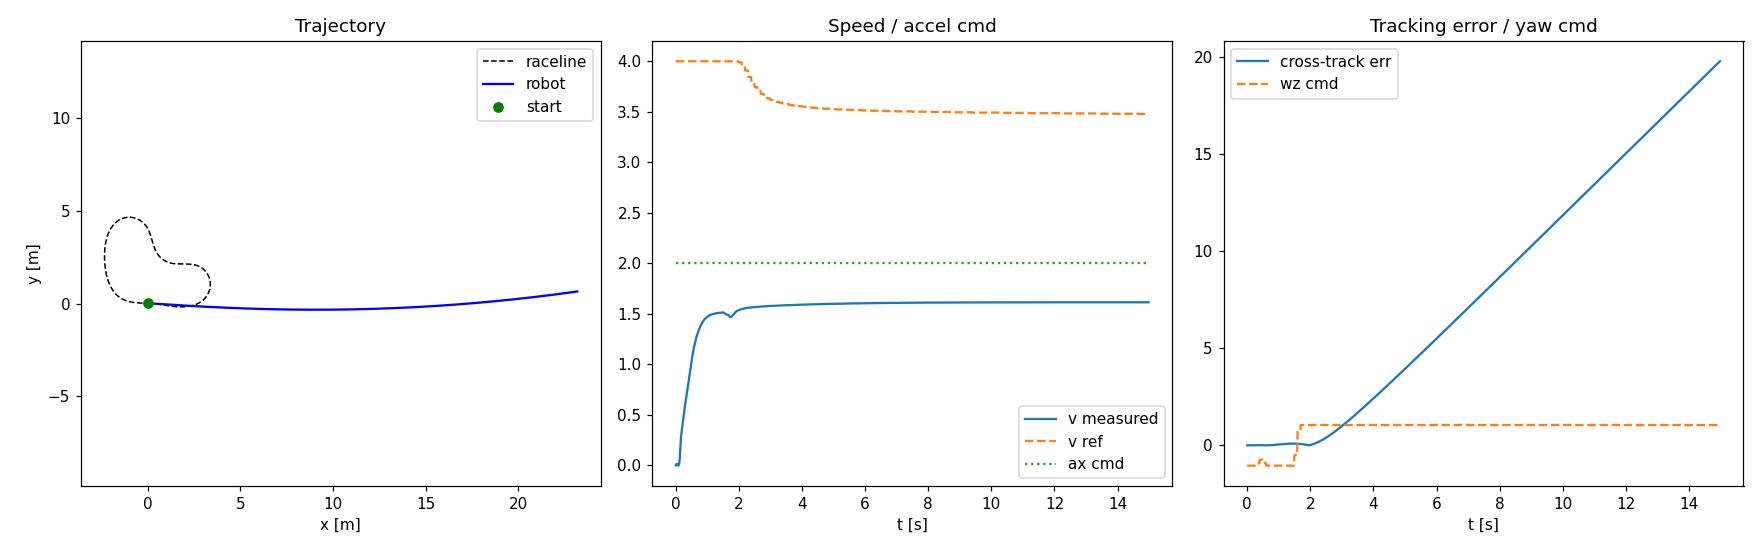
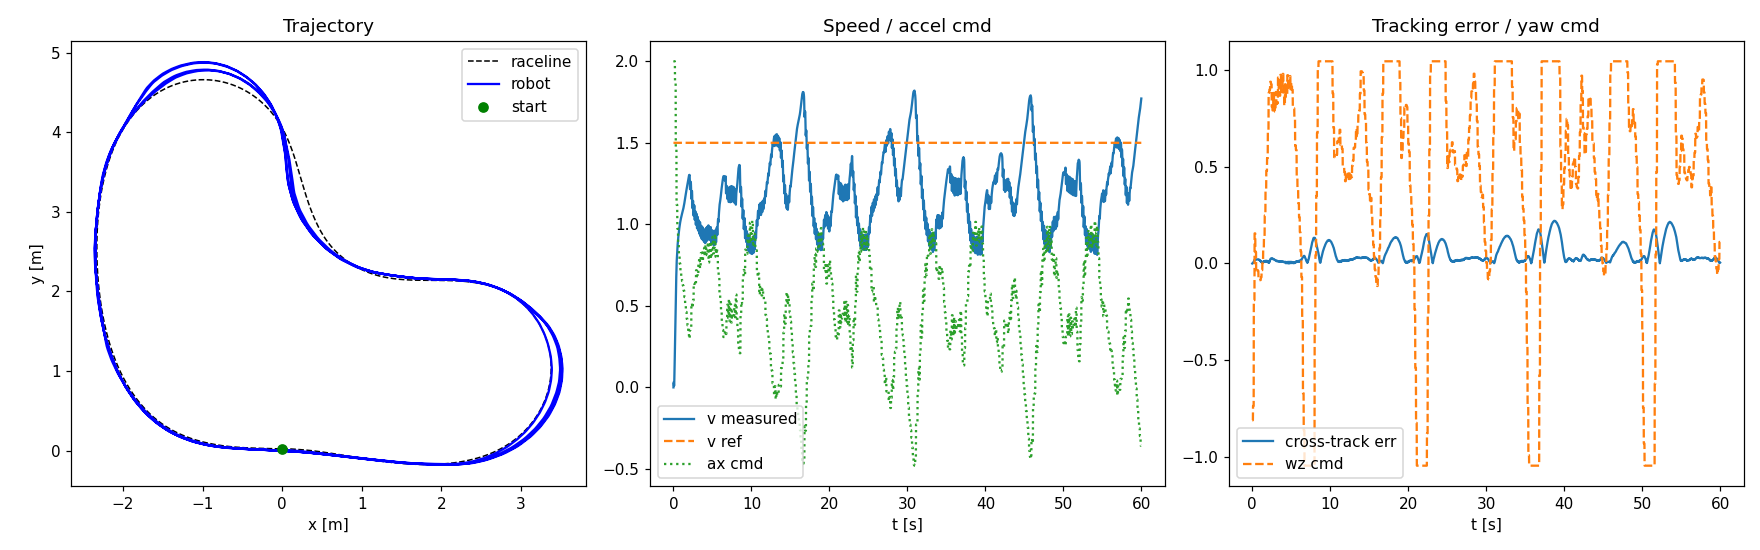
mujoco sim of new trained policy

diff --git a/scripts/mujoco_track_sim/run_mujoco_track_sim.py b/scripts/mujoco_track_sim/run_mujoco_track_sim.py
@@ -6,6 +6,7 @@ from __future__ import annotations
 
 import argparse
 import os
+import time
 
 import mujoco
 import numpy as np
@@ -17,7 +18,7 @@ HERE = os.path.dirname(os.path.abspath(__file__))
 XML = os.path.join(HERE, "assets", "go2w.xml")
 DEFAULT_RACELINE = os.path.expanduser("~/go2w_planner_ws/data/raceline_ltrack.npz")
 DEFAULT_POLICY = os.path.expanduser(
-    "~/robot_lab/logs/rsl_rl/unitree_go2w_smooth_steer/2026-05-13_16-50-51/exported/policy.pt"
+    "~/robot_lab/logs/rsl_rl/unitree_go2w_smooth_steer/2026-05-29_08-49-22/exported/policy.pt"
 )
 
 PHYS_DT = 0.005
@@ -90,8 +91,9 @@ class Sim:
         leg_q_des, wheel_dq_des = self.runner.decode(action)
         self.data.ctrl[self.act_idx] = np.concatenate([leg_q_des, wheel_dq_des])
 
-    def run(self, duration, viewer=False, verbose=True):
+    def run(self, duration, viewer=False, verbose=True, real_time=True):
         n_control = int(duration / (PHYS_DT * CONTROL_DECIMATION))
+        control_dt = PHYS_DT * CONTROL_DECIMATION
         log = {"t": [], "x": [], "y": [], "v": [], "v_ref": [], "cmd": [], "z": [], "s": []}
         command = np.zeros(3)
         last_info = {"v_ref": 0.0, "s": 0.0}
@@ -100,8 +102,15 @@ class Sim:
         if viewer:
             from mujoco import viewer as mj_viewer
             vh = mj_viewer.launch_passive(self.model, self.data)
+            base_id = mujoco.mj_name2id(self.model, mujoco.mjtObj.mjOBJ_BODY, "base")
+            if base_id >= 0:
+                vh.cam.trackbodyid = base_id
+                vh.cam.distance = 4.0
+                vh.cam.azimuth = 90.0
+                vh.cam.elevation = -25.0
 
         self.reset_on_track()
+        wall_start = time.perf_counter()
         try:
             for k in range(n_control):
                 x, y, psi, v = self.read_planner_state()
@@ -123,6 +132,10 @@ class Sim:
 
                 if vh is not None:
                     vh.sync()
+                if real_time and vh is not None:
+                    lag = (k + 1) * control_dt - (time.perf_counter() - wall_start)
+                    if lag > 0:
+                        time.sleep(lag)
                 if verbose and k % 50 == 0:
                     print(f"t={t:5.1f}s  s={last_info['s']:5.2f}/{self.planner.track_length:.1f}m  "
                           f"pos=({x:5.2f},{y:5.2f})  v={v:4.2f}->{last_info['v_ref']:4.2f}  "
@@ -180,11 +193,12 @@ def main():
     ap.add_argument("--policy", default=DEFAULT_POLICY)
     ap.add_argument("--duration", type=float, default=30.0)
     ap.add_argument("--viewer", action="store_true")
+    ap.add_argument("--no_real_time", action="store_true")
     ap.add_argument("--plot", default=os.path.join(HERE, "track_result.png"))
     args = ap.parse_args()
 
     sim = Sim(args.xml, args.raceline, args.policy)
-    log = sim.run(args.duration, viewer=args.viewer)
+    log = sim.run(args.duration, viewer=args.viewer, real_time=not args.no_real_time)
     sim.report(log, args.plot)
 
 

diff --git a/scripts/mujoco_track_sim/accel_pursuit_planner.py b/scripts/mujoco_track_sim/accel_pursuit_planner.py
@@ -19,6 +19,7 @@ BLEND_MARGIN = 0.9
 KP_V = 1.5
 AX_MAX = 2.0
 WZ_MAX = np.pi / 3
+V_MAX = 1.5
 
 
 class _SpeedProfile:
@@ -60,7 +61,7 @@ class _RacelineProjector:
 
 class AccelPursuitPlanner:
     def __init__(self, raceline_npz, lookahead_m=LOOKAHEAD_M, v_straight=V_STRAIGHT,
-                 v_corner=V_CORNER, kp_v=KP_V, use_raceline_v=True):
+                 v_corner=V_CORNER, kp_v=KP_V, use_raceline_v=True, v_max=V_MAX):
         data = np.load(raceline_npz)
         pts = data["pts"].astype(float)
         ss = data["ss"].astype(float)
@@ -74,6 +75,7 @@ class AccelPursuitPlanner:
             self._speed = _SpeedProfile(ss, theta, v_straight=v_straight, v_corner=v_corner)
         self.lookahead = lookahead_m
         self.kp_v = kp_v
+        self.v_max = v_max
         self.track_length = float(ss[-1])
 
     def plan(self, x, y, psi, v):
@@ -88,7 +90,7 @@ class AccelPursuitPlanner:
         dx, dy = lx - x, ly - y
         dist = np.maximum(np.hypot(dx, dy), 1e-3)
         alpha = ((np.arctan2(dy, dx) - psi) + np.pi) % (2 * np.pi) - np.pi
-        v_ref = self._speed(s_steps)
+        v_ref = np.minimum(self._speed(s_steps), self.v_max)
         wz = np.clip(2.0 * np.maximum(v_ref, 0.1) * np.sin(alpha) / dist + KP_HDG * alpha,
                      -WZ_MAX, WZ_MAX)
         ax = np.clip(self.kp_v * (v_ref - v_now), -AX_MAX, AX_MAX)

diff --git a/scripts/mujoco_track_sim/gen_go2w_mjcf.py b/scripts/mujoco_track_sim/gen_go2w_mjcf.py
@@ -34,7 +34,7 @@ LEG_KD = 10.0
 WHEEL_KV = 0.5
 EFFORT_LIMIT = 23.5
 BASE_INIT_HEIGHT = 0.45
-GROUND_FRICTION = 0.7
+GROUND_FRICTION = 1.1
 
 
 def rpy_to_quat(rpy):

diff --git a/scripts/mujoco_track_sim/README.md b/scripts/mujoco_track_sim/README.md
@@ -1,53 +1,82 @@
 # Go2W MuJoCo track-following sim
 
-Standalone (ROS-free) MuJoCo rig to validate the smooth-steer RL model following the
-raceline with the new `[lin_acc_x, roll_rate, ang_vel_z]` command interface, before
-deploying to the robot.
+Standalone (ROS-free) MuJoCo rig to validate the Go2W smooth-steer RL policy following
+the raceline before deploying to the robot. The policy is trained in IsaacLab with the
+`[lin_acc_x, roll_rate, ang_vel_z]` differential command; this rig reproduces the exact
+observation/action interface so a policy that works here can be ported to the robot
+`rl_node` unchanged.
 
 ## Files
 - `gen_go2w_mjcf.py` — generates `assets/go2w.xml` from the robot_lab Go2W URDF (converts
   `.dae`→`.stl`, floating base, ground plane, IsaacLab-matched actuators, IMU/gyro sensor).
-  Run once: `python gen_go2w_mjcf.py`.
+  Run once after a URDF change. Key constants: `LEG_KP=70`, `LEG_KD=10`, `WHEEL_KV=0.5`,
+  `EFFORT_LIMIT=23.5`, `BASE_INIT_HEIGHT=0.45`, `GROUND_FRICTION=1.1` (matches the lab floor).
+- `policy_runner.py` — `PolicyRunner`: the exact 54-d observation layout and 16-d action
+  decode of the IsaacLab env. This is the piece to port into the robot `rl_node`.
 - `accel_pursuit_planner.py` — `AccelPursuitPlanner`: raceline + pose → `[ax, 0, wz]`.
-  Acceleration variant of `pure_pursuit_node`; outer speed loop `ax = Kp·(v_ref − v)`,
-  yaw rate from pure-pursuit geometry. Pure NumPy, drops into a ROS node that publishes
-  an `action_seq` of shape `(HORIZON, 3)` via `plan_horizon()`.
-- `policy_runner.py` — `PolicyRunner`: the exact 54-d obs layout and 16-d action decode of
-  the IsaacLab env. This is the piece to port into the robot `rl_node`.
+  Outer speed loop `ax = Kp·(v_ref − v)`, yaw from pure-pursuit geometry, roll fixed at 0.
+  Drops into a ROS node that publishes an `action_seq` of shape `(HORIZON, 3)` via
+  `plan_horizon()`.
 - `run_mujoco_track_sim.py` — the test loop (50 Hz control, 10 Hz planning, 200 Hz physics).
-- `isaaclab_command_check.py` — forces a fixed command in native IsaacLab to ground-truth a
-  policy's command response.
+  Defaults to the current best policy; override with `--policy`.
+- `assets/go2w.xml`, `assets/meshes/` — generated MuJoCo model (do not hand-edit; regenerate).
 
 ## Run
+```bash
+conda activate isaac
+cd ~/robot_lab/scripts/mujoco_track_sim
+
+python gen_go2w_mjcf.py                         # regenerate the MJCF (only after URDF changes)
+python run_mujoco_track_sim.py --viewer         # interactive viewer (real-time, camera follows robot)
+python run_mujoco_track_sim.py --duration 60    # headless, saves track_result.png
+python run_mujoco_track_sim.py --policy <path/to/exported/policy.pt> --viewer
 ```
-conda activate env_isaaclab_v2
-python gen_go2w_mjcf.py
-python run_mujoco_track_sim.py --duration 30            # headless, saves track_result.png
-python run_mujoco_track_sim.py --viewer                 # interactive viewer
-python isaaclab_command_check.py --ax 1.0 --wz 1.0      # native-sim ground truth
-```
+Useful flags: `--policy <path>`, `--duration <sec>`, `--raceline <npz>`, `--no_real_time`
+(unthrottle the viewer), `--plot <png>`.
 
 ## Policy interface (smooth-steer)
-- obs (54): `base_ang_vel·0.25 (3)`, `command (3) = [ax, roll_rate, wz]`,
+- obs (54): `base_ang_vel·0.25 (3)`, `command (3) = [lin_acc_x, roll_rate, ang_vel_z]`,
   `joint_pos_rel (16, wheels zeroed)`, `joint_vel·0.05 (16)`, `last_action (16)`.
 - action (16): 12 leg position deltas (`q = default + scale·a`, scale hip 0.125 / others 0.25)
   + 4 wheel velocity targets (`dq = 5.0·a`).
 - joint order `FR,FL,RR,RL` legs then `FR,FL,RR,RL` wheels; command index 2 = yaw rate.
 - actuators match IsaacLab: legs position kp=70 / damping 10, wheels velocity kv=0.5,
-  torque limited to ±23.5 N·m (the effort limit used in training).
+  torque limited to ±23.5 N·m (the effort limit used in training — do not inflate the wheel
+  gain to force tracking, it overstates torque/overload).
+
+## Exporting a policy to test
+`play.py` writes `<run>/exported/policy.pt` (TorchScript) on load, which this rig consumes.
+Always pin the run with `--load_run` — a stray `unitree_go2w_smooth_steer/unitree_go2w_flat/`
+folder sorts after the date dirs and gets auto-selected otherwise:
+```bash
+python ~/robot_lab/scripts/reinforcement_learning/rsl_rl/play.py \
+  --task RobotLab-Isaac-Velocity-SmoothSteer-Unitree-Go2W-v0 \
+  --headless --num_envs 1 --load_run <YYYY-MM-DD_HH-MM-SS>
+```
 
 ## Deployment mapping (robot)
-The planner publishes `action_seq (HORIZON, 3)` of `[ax, 0, wz]`; the robot `rl_node`
-selects the horizon index by elapsed time, fills `velocity_commands`, and runs `PolicyRunner`
-(obs from IMU gyro + joint states, action → leg `q` / wheel `dq`). Same topology as the
-current velocity-tracking deployment, with the command contract changed to acceleration.
+The planner publishes `action_seq (HORIZON, 3)` of `[ax, 0, wz]`; the robot `rl_node` selects
+the horizon index by elapsed time, fills `velocity_commands`, and runs `PolicyRunner` (obs
+from IMU gyro + joint states, action → leg `q` / wheel `dq`). Same topology as the current
+velocity-tracking deployment, with the command contract changed to acceleration.
 
-## Finding
-The trained model `model_13998` does **not** steer: for a commanded yaw rate of 1.0 rad/s it
-achieves ~0.01 rad/s — confirmed in both this MuJoCo rig and the native IsaacLab env (verified
-with `isaaclab_command_check.py`), so it is a property of the model, not a sim discrepancy.
-Forward acceleration tracking works (the robot drives but cannot turn onto the track). The
-likely cause is reward balance: yaw-tracking weight (1.5) is dominated by the pose/orientation
-penalties (`joint_pos_penalty` −8, `flat_orientation_l2` −5, `base_height_l2` −3, `action_sync`
-−2). The model needs retraining with a stronger yaw incentive before trajectory following is
-viable; this rig and `isaaclab_command_check.py` can verify the next model before robot tests.
+## Context / validated findings
+- The rig is **validated against native IsaacLab**: forced-command tests match (e.g. `ax=+1.5`
+  gives the same body-frame velocity and wheel response in both sims), so MuJoCo results here
+  are trustworthy.
+- **Frame convention:** body +x is visual-forward (front hips at +0.1934 m). Positive
+  `lin_acc_x` should drive forward.
+- **The acceleration command does not pin steady-state speed/direction** — at constant cruise
+  the actual accel ≈ 0, so the command earns little reward and travel direction is left to the
+  optimizer. Training from scratch can land in a backward-cruising basin (`model_29999` did:
+  backward at every command; a planner sign-flip cannot fix this, there is no forward gear).
+- **Fix without changing the command space:** fine-tune from a known forward-driving
+  checkpoint. `model_18997` (run `2026-05-29_08-49-22`, fine-tuned from `model_13998`) drives
+  forward for `ax>0`, reverses for `ax<0`, yaws ~0.6–0.9 rad/s, and laps the raceline. This is
+  the current default policy. **After any retrain, re-check the `ax`→direction mapping in
+  MuJoCo before track tests.**
+- Tracking tightness is **speed-limited, not model-limited**: with yaw capped at π/3 rad/s,
+  turn radius ≈ v / yaw, so lowering the planner target speed tightens the line on tight tracks.
+  The planner caps the target speed at `V_MAX = 1.5` m/s (`v_max` ctor arg); on this raceline
+  that drops the mean cross-track error from ~1.2 m (uncapped ~3 m/s) to ~0.05 m. Raise it for
+  faster, wider laps.
